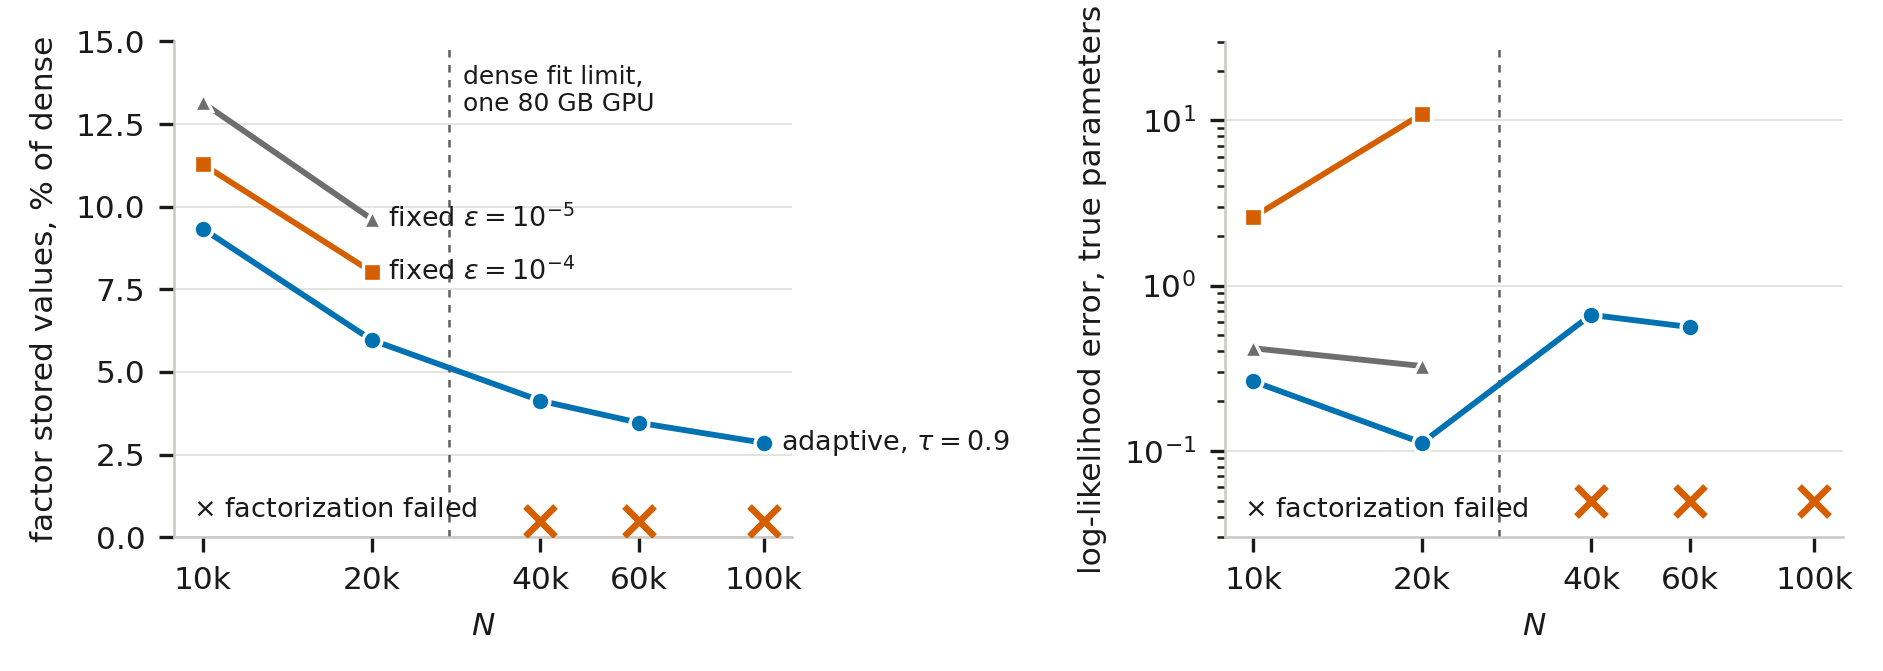
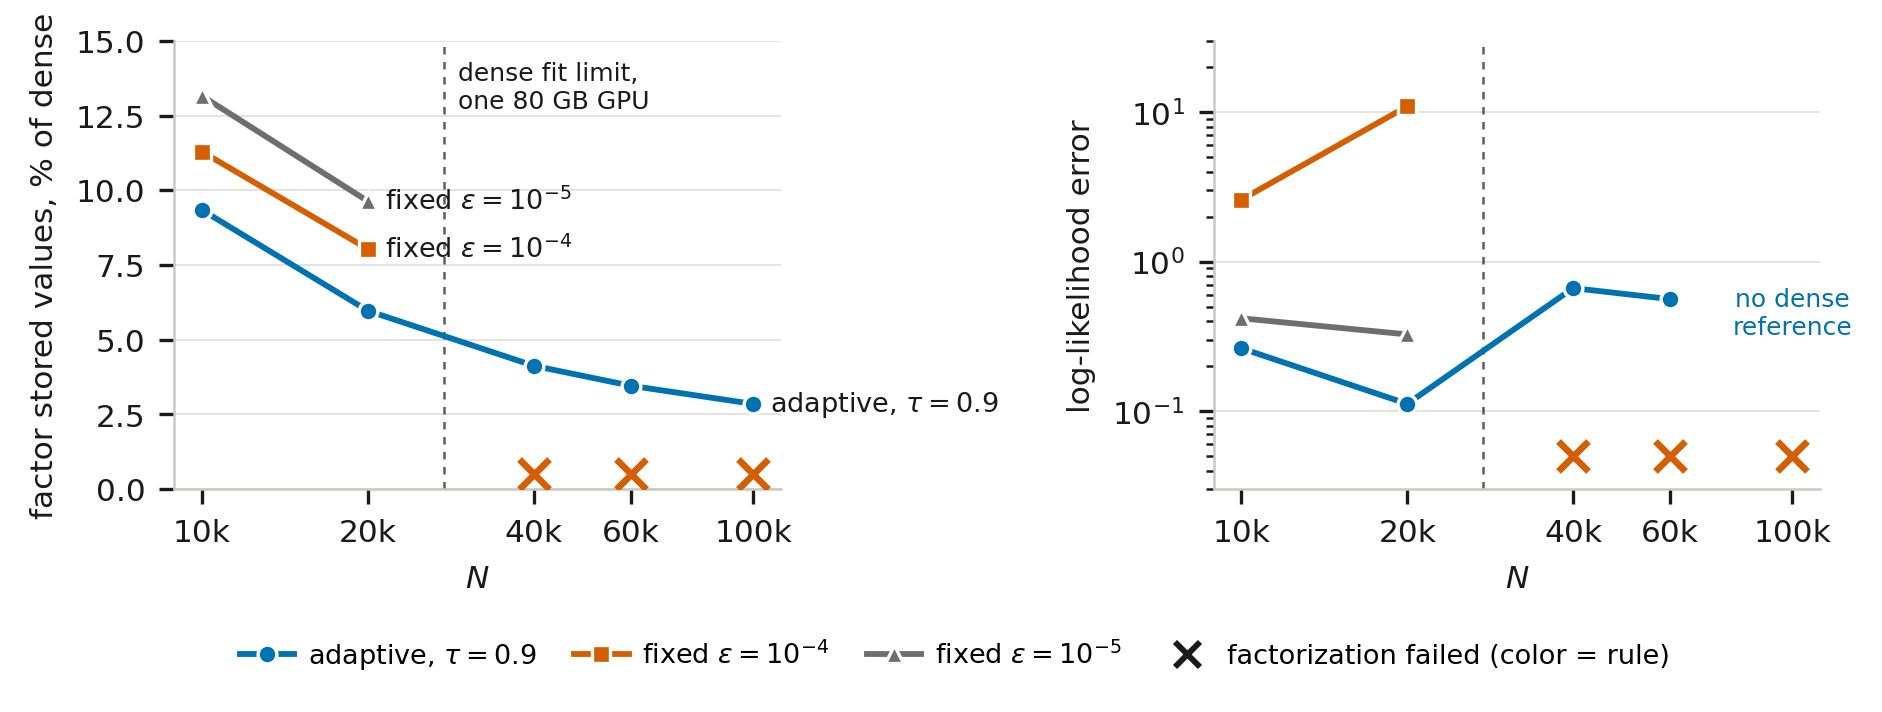
Results figure: legend with the failure marker, no-dense-reference note

diff --git a/codes/20_pilot_results_figure.py b/codes/20_pilot_results_figure.py
@@ -36,7 +36,7 @@ for ax in (a1, a2):
     ax.minorticks_off(); ax.grid(axis="y", color=RULE, lw=0.4, alpha=0.6); ax.set_axisbelow(True)
     ax.spines[["top", "right"]].set_visible(False); ax.set_xlabel("$N$")
 a1.set_ylabel("factor stored values, % of dense")
-a2.set_ylabel("log-likelihood error, true parameters")
+a2.set_ylabel("log-likelihood error")
 a2.set_yscale("log")
 for rule, val, label, col, mk in SERIES:
     xs, ys, es, fails = [], [], [], []
@@ -58,12 +58,19 @@ for rule, val, label, col, mk in SERIES:
     if xs:                                                # direct label at the last point
         a1.annotate(label, (xs[-1], ys[-1]), xytext=(4, 0), textcoords="offset points", color=INK, fontsize=6.5, va="center")
 a1.set_ylim(0, 15); a2.set_ylim(0.03, 30)
-a1.text(0.03, 0.04, "$\\times$ factorization failed", transform=a1.transAxes, fontsize=6.5, color=INK)
-a2.text(0.03, 0.04, "$\\times$ factorization failed", transform=a2.transAxes, fontsize=6.5, color=INK)
+# sizes without an exact log-likelihood (no dense factor): say so in the error panel
+no_ref = [n for n in Ns if all(rows.get((r, v, n), {}).get("loglik_err") is None for r, v, _, _, _ in SERIES if rows.get((r, v, n), {}).get("completed"))]
+for n in no_ref:
+    a2.text(n, 0.45, "no dense\nreference", ha="center", va="center", fontsize=6, color=BLUE)
+# one legend for both panels: the three rules and the failure marker (its color is the rule's)
+from matplotlib.lines import Line2D
+handles = [Line2D([], [], color=col, marker=mk, ms=4.5, mec="white", mew=0.8, lw=1.4, label=label) for _, _, label, col, mk in SERIES]
+handles.append(Line2D([], [], color=INK, marker="x", ms=6, mew=1.4, ls="none", label="factorization failed (color = rule)"))
+fig.legend(handles=handles, loc="lower center", ncol=4, frameon=False, fontsize=6.5, bbox_to_anchor=(0.5, -0.02), handletextpad=0.5, columnspacing=1.4)
 for ax in (a1, a2):                                       # dense FP64 fit limit of the wind-gust study on one 80 GB GPU
     ax.axvline(27440, color=INK, lw=0.6, ls=(0, (3, 3)), alpha=0.7)
 a1.text(27440 * 1.06, 14.3, "dense fit limit,\none 80 GB GPU", fontsize=6, color=INK, va="top")
-fig.tight_layout(w_pad=2.0)
+fig.tight_layout(w_pad=2.0, rect=(0, 0.07, 1, 1))
 for ext in ("pdf", "png"):
     fig.savefig(os.path.join(ROOT, "results", f"pilot_results.{ext}"), dpi=300, bbox_inches="tight")
 print("sizes", Ns, "-> overleaf/figures/pilot_results.pdf")
